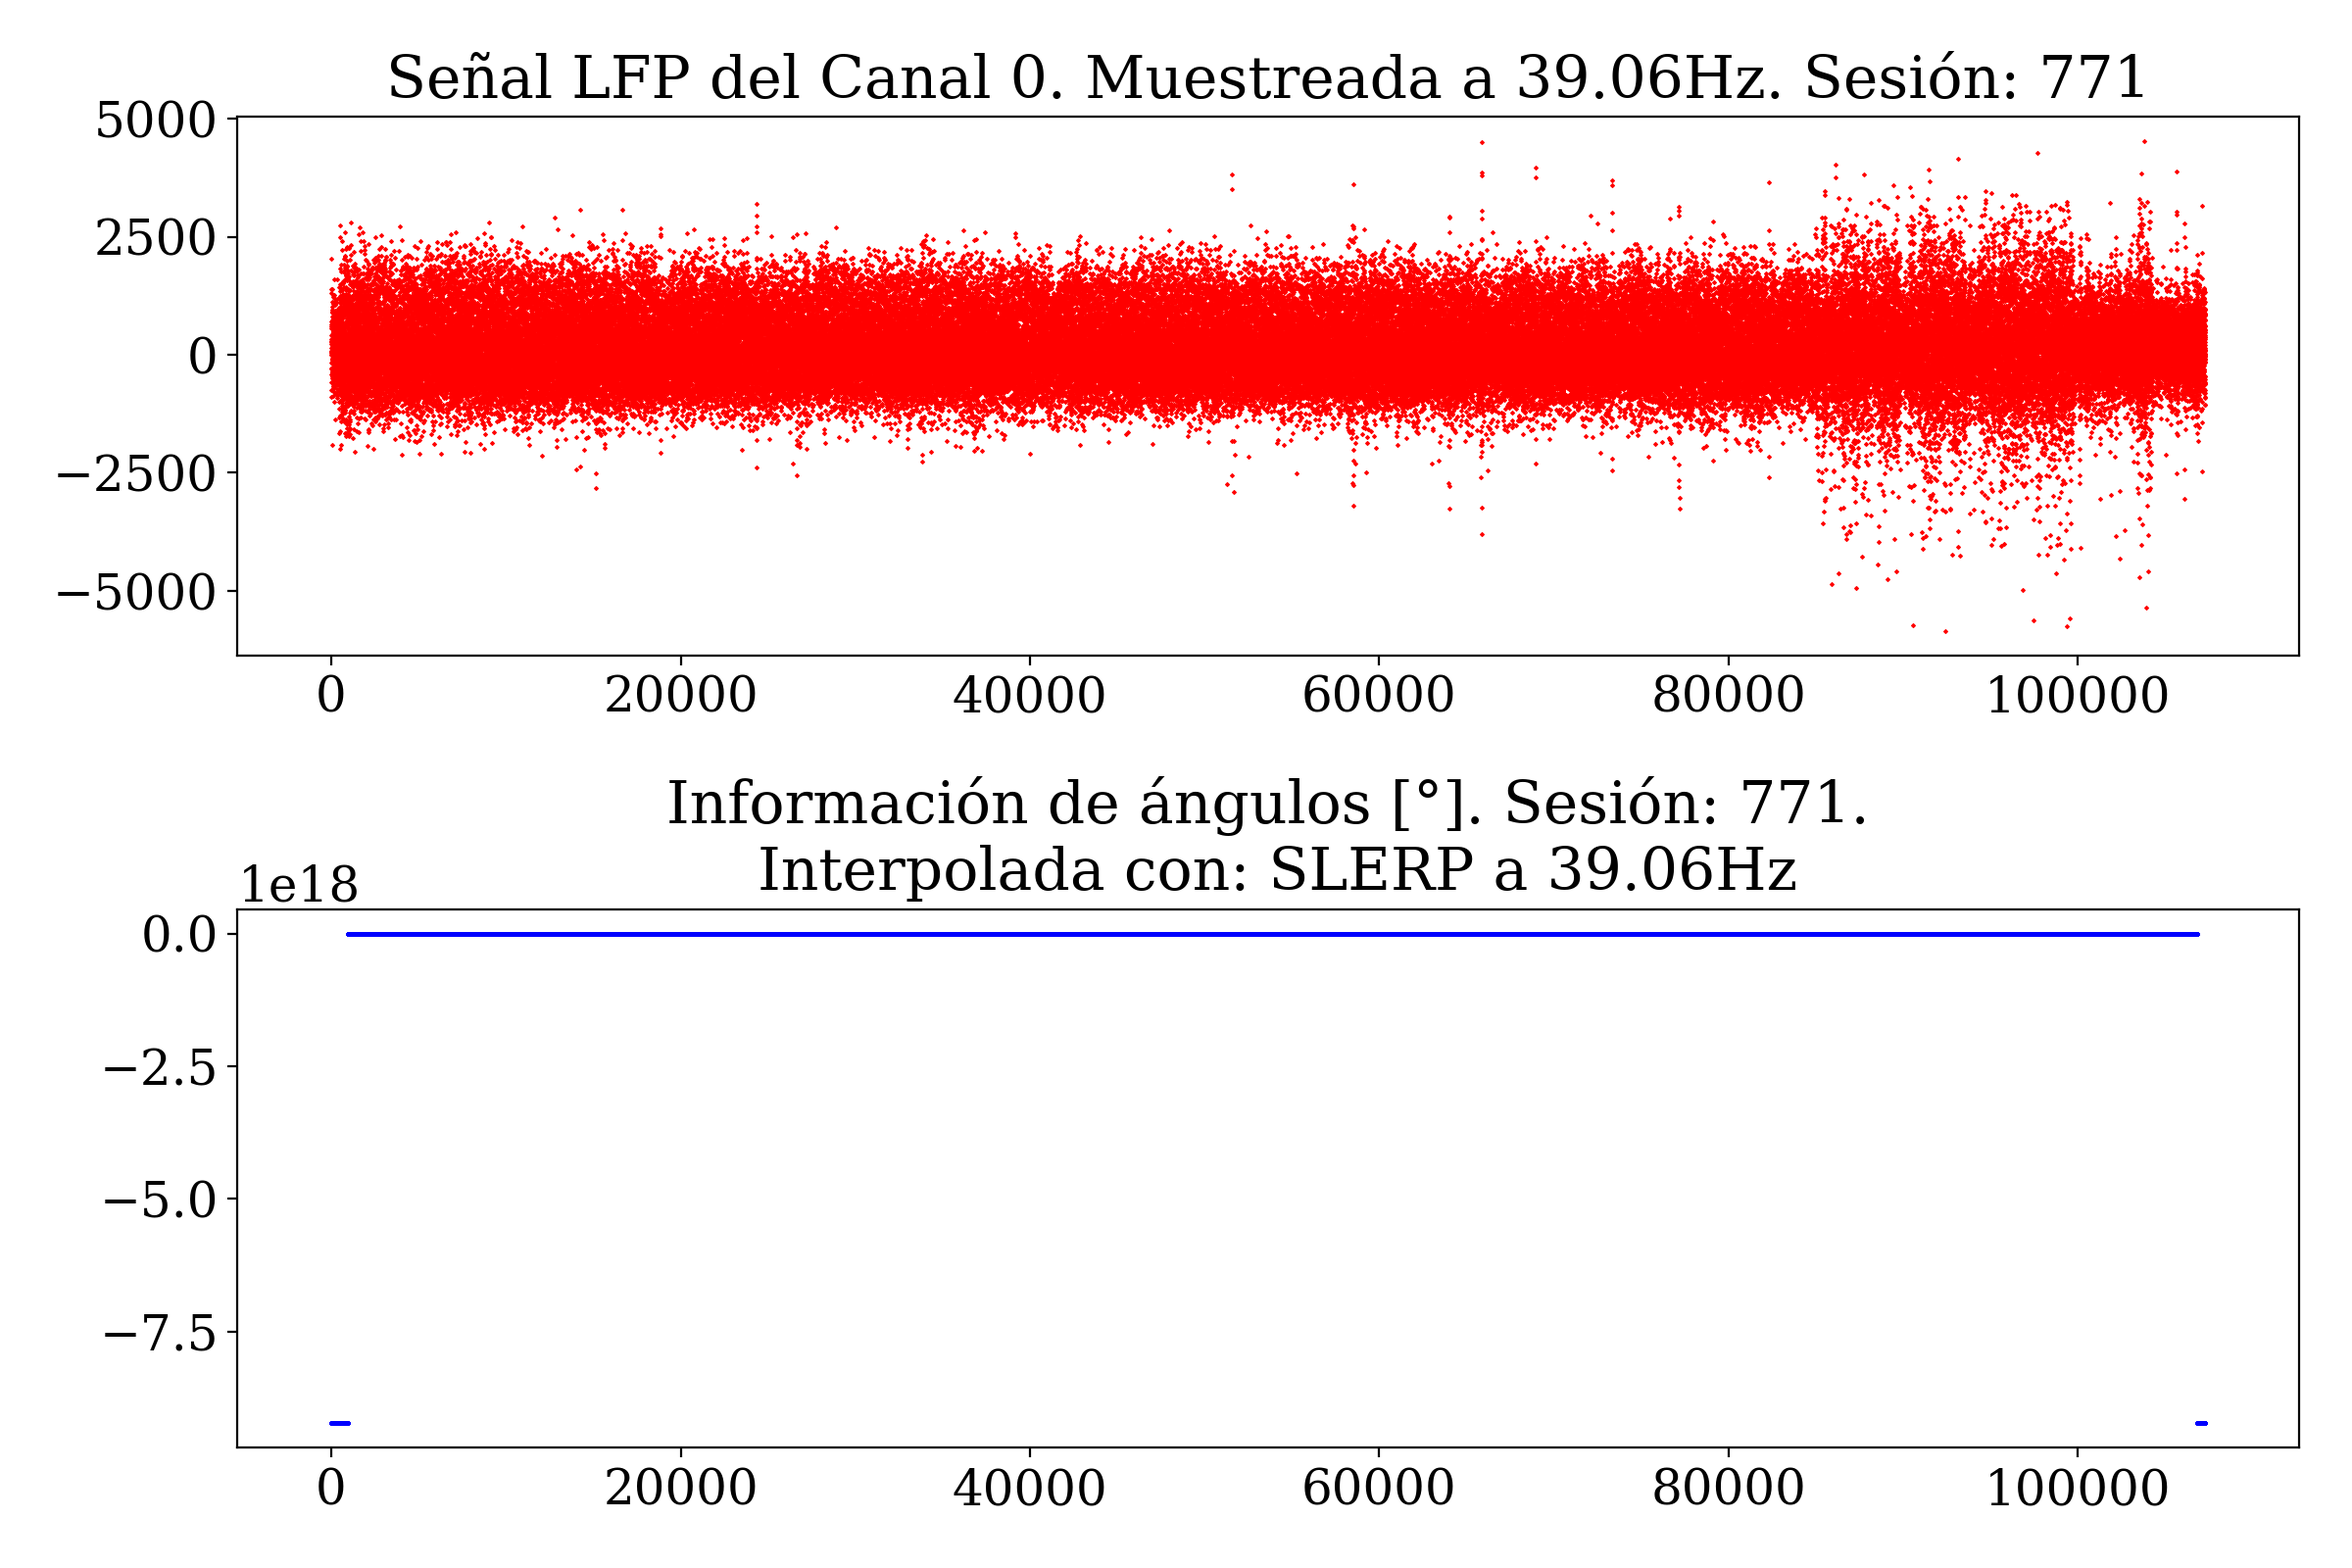
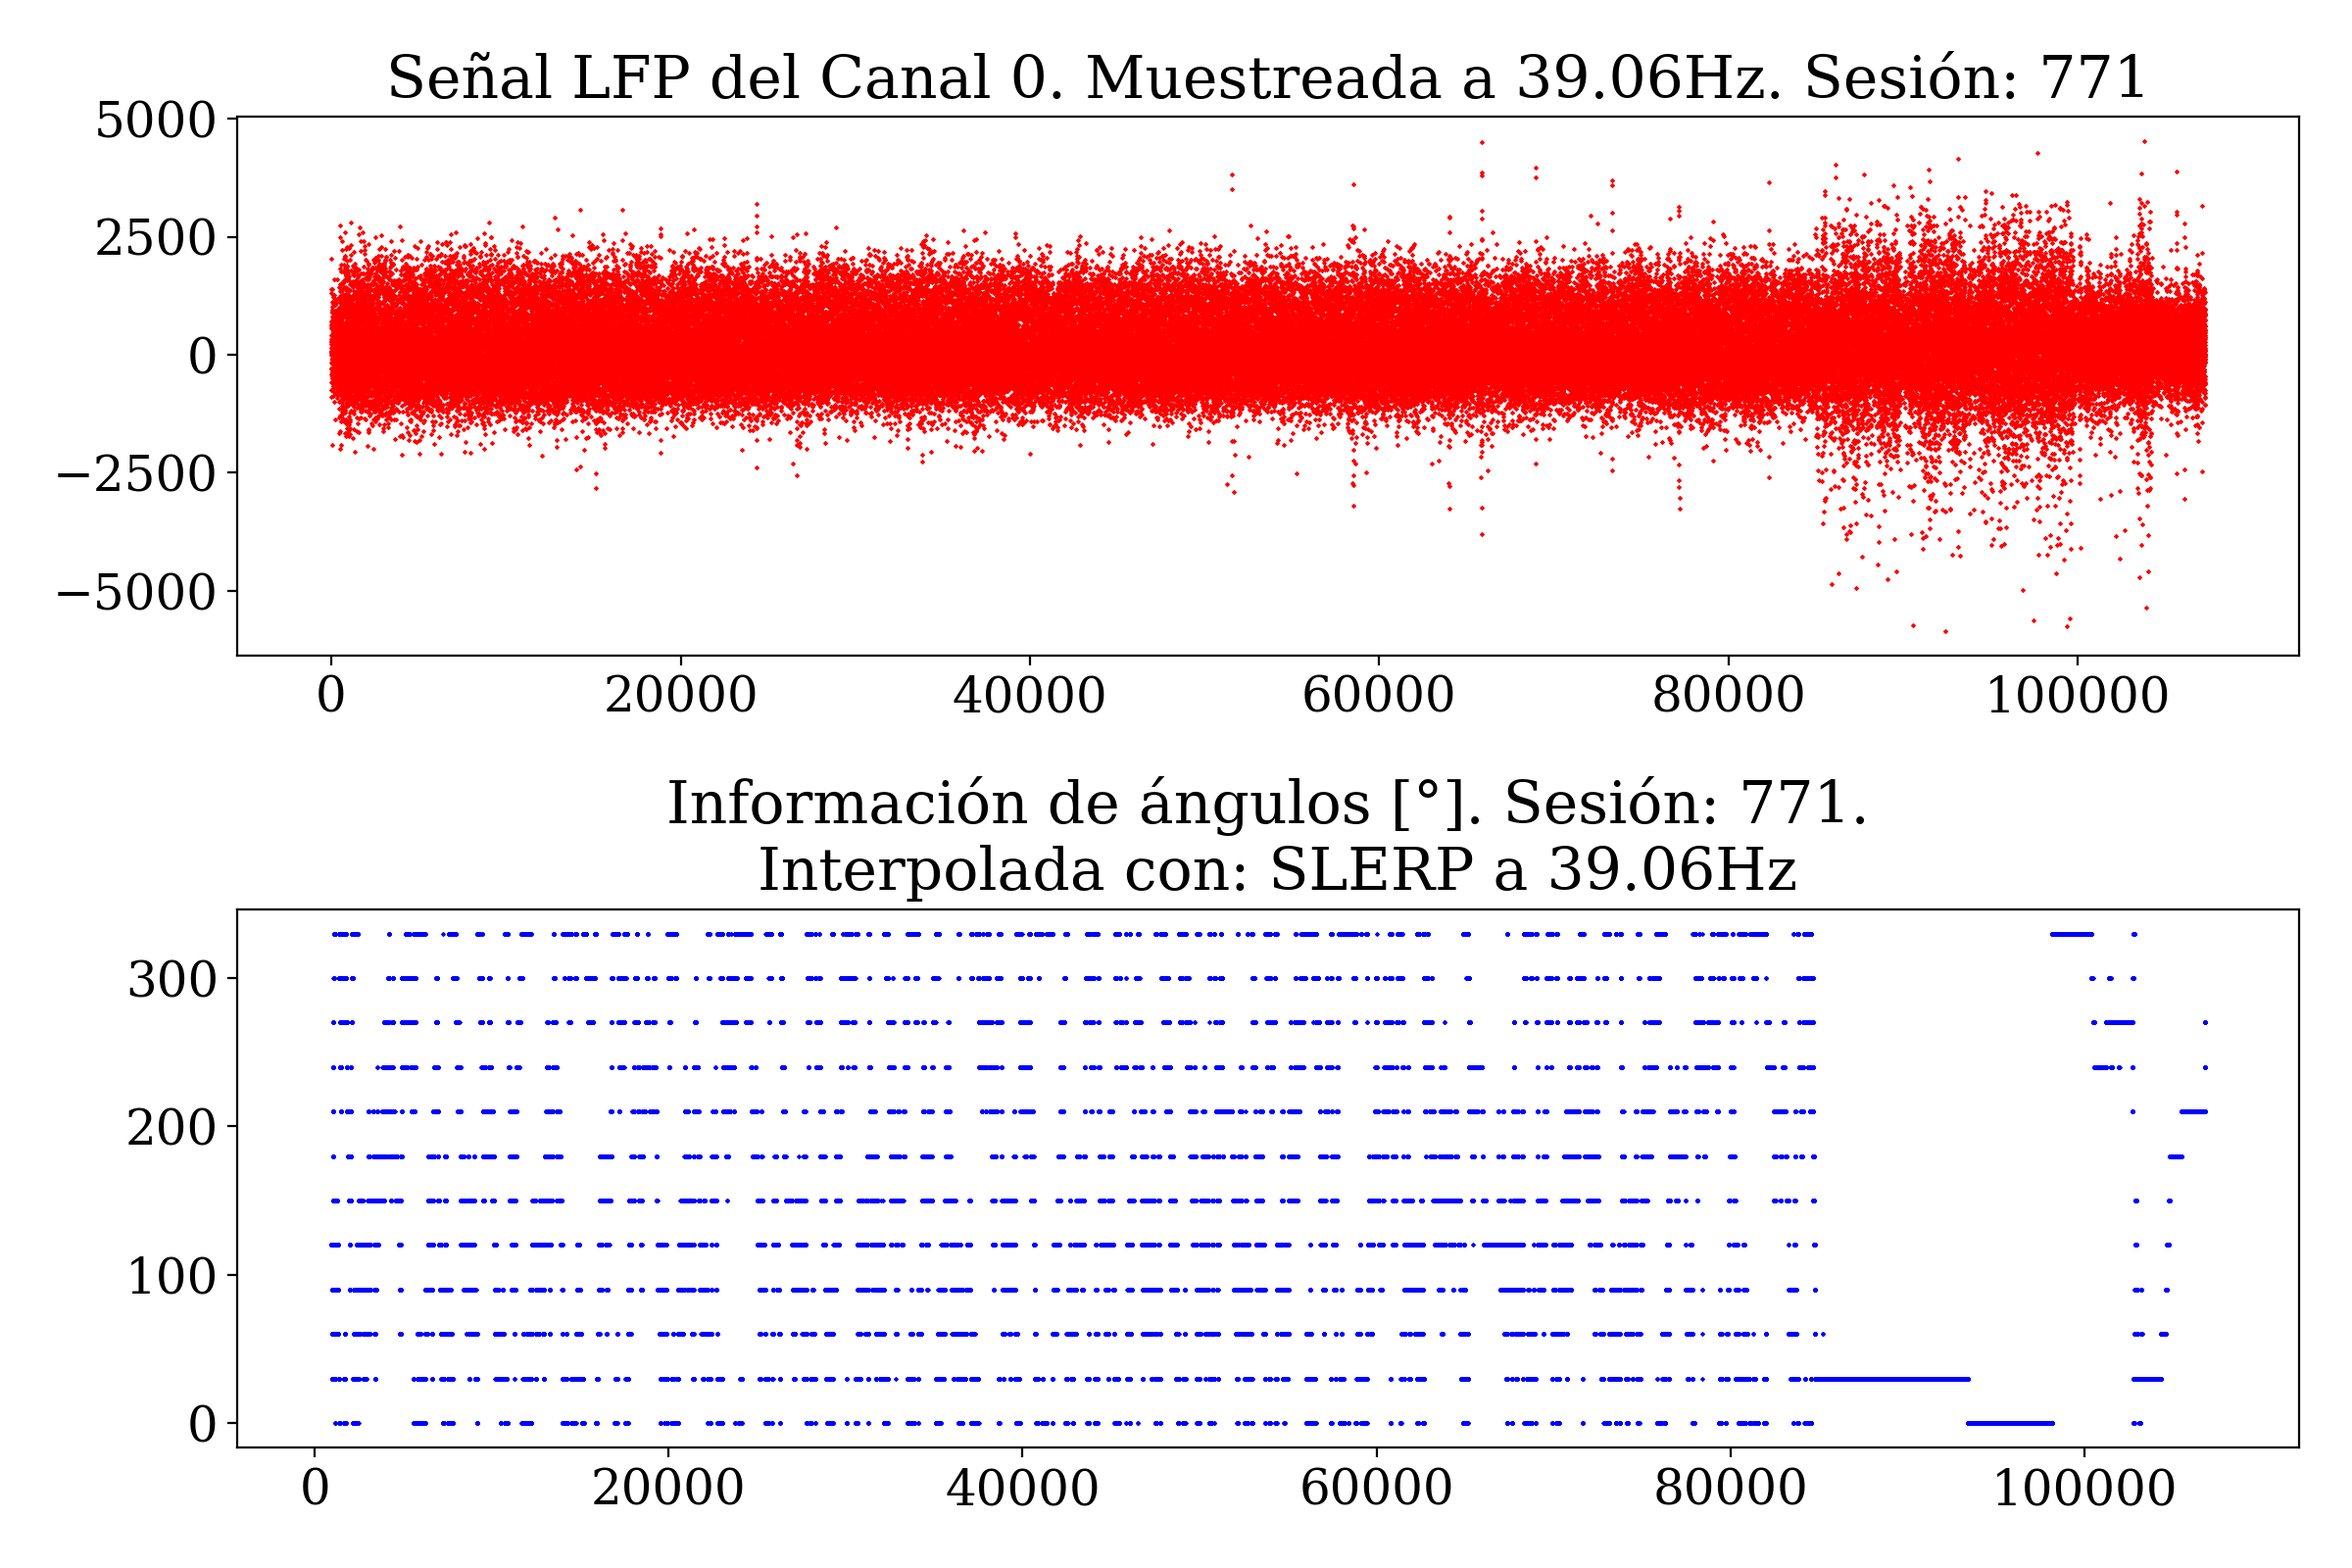
Fix labels definition when rounding angles into a finite number of labels. - Bar plot angle labels versus percentage of appearances - FIX BUG: wrong casting to ints when adding labels.

diff --git a/DataExploration/DataExploration.py b/DataExploration/DataExploration.py
@@ -37,8 +37,8 @@ PLOT = True
 DONT_PLOT = False
 
 # Session and methods Parameters
-session = {"Number": "771", "LFP Data": data.LFP_771, "Angles Data": data.ANGLES_771}  # or
-#session = {"Number": "765", "LFP Data": data.LFP_765, "Angles Data": data.ANGLES_765}
+#session = {"Number": "771", "LFP Data": data.LFP_771, "Angles Data": data.ANGLES_771}  # or
+session = {"Number": "765", "LFP Data": data.LFP_765, "Angles Data": data.ANGLES_765}
 
 interpolation = "SLERP"  # "linear" "quadratic" "cubic" "nearest" "SLERP"
 sync_method = "Pad Angles"  # "Pad Angles" "Downsample LFPs"
@@ -155,7 +155,7 @@ if PLOT:
     plt.plot(angles_data_interpolated[:], "xr")
     plt.title("Información de ángulos [°]. Sesión: " + session["Number"] + ".\n Interpolada con: " + interpolation
               + " a " + str(rate_used) + "Hz")
-    ui.store_figure(figname, True)
+    ui.store_figure(figname)
 
 ## <li> Step 5
 # <ul>
@@ -165,7 +165,10 @@ if PLOT:
 # </ul>
 Env.step("Label data by concatenating LFPs and interpolated Angles in a single 2D-array.")
 
-labeled_data = data.add_labels(lfp_data, np.expand_dims(angles_data_interpolated, axis=1), 45, 90)
+base_angle = 0
+offset_between_angles = 30
+labeled_data = data.add_labels(lfp_data, np.expand_dims(angles_data_interpolated, axis=1),
+                               base_angle, offset_between_angles)
 
 if PLOT:
     Env.print_text("Plotting LFP data from channels 0 and interpolated angles data at " + str(rate_used) + "Hz. [°]")
@@ -193,6 +196,7 @@ if session["Number"] == "771" and sync_method == "Downsample LFPs":
 # <ul>
 # <li> Convert labeled dataset to a dataframe.
 # <li> Clean both, the labeled dataset and dataframe from NaN values at the boundaries.
+# <li> Print Bar plot for labeled angles.
 # </ul>
 Env.step("Clean the labeled dataset from NaN values at the boundaries.")
 
@@ -200,6 +204,23 @@ dataframe = data.ndarray_to_dataframe(labeled_data, rate_used)
 
 clean_frame = data.clean_unsync_boundaries(dataframe)
 clean_dataset = data.clean_unsync_boundaries(labeled_data, False)
+
+labels = np.arange(base_angle, 360, offset_between_angles)
+percentages = []
+for u in range(base_angle, 360, offset_between_angles):
+    percentages.append(round(np.sum(clean_dataset[:, -1] == u)*100/len(clean_dataset[:, -1])))
+
+labels_percent = np.concatenate((np.expand_dims(labels, axis=1), np.expand_dims(percentages, axis=1)), axis=1)
+dataframe_labels = pd.DataFrame(data=labels_percent, columns=["Angulos", "Porcentaje"])
+
+if PLOT:
+    Env.print_text("Plotting Barplot of Labels after " + interpolation + " interpolation")
+    figname = session["Number"] + "_BarPLotAngles_" + interpolation + "_" + str(rate_used) + "Hz"
+    plt.figure(figname)
+    sns.barplot(x="Angulos", y="Porcentaje", data=dataframe_labels)
+    plt.title("Gráfico de Barras de las etiquetas. Sesión: " + session["Number"] + ".\n Interpolada con: " + interpolation
+              + " a " + str(rate_used) + "Hz")
+    ui.store_figure(figname)
 
 ## <li> Step 7
 # <ul>
@@ -210,20 +231,20 @@ Env.step("Count and print number of NaNs in the Dataset.")
 
 nans_begin = 0
 nans_end = 0
-length = len(labeled_data)
+length = len(angles_data_interpolated)
 for i in range(length):
-    if ~np.isnan(labeled_data[i, -1]):
+    if ~np.isnan(angles_data_interpolated[i]):
         nans_begin = i
         break
 for i in range(length-1, 0, -1):
-    if ~np.isnan(labeled_data[i, -1]):
+    if ~np.isnan(angles_data_interpolated[i]):
         nans_end = i
         break
 nans_end = length - (nans_end + 1)
 
 Env.print_text("Number of NaNs in Angles Data without interpolation: " + str(np.count_nonzero(np.isnan(angles_data))))
 Env.print_text("Number of NaNs in Labeled Dataset with interpolated Angles Data: "
-               + str(np.count_nonzero(np.isnan(labeled_data))))
+               + str(np.count_nonzero(np.isnan(angles_data_interpolated))))
 Env.print_text("Number of NaNs at the beginning of the interpolated Angles Data: " + str(nans_begin))
 Env.print_text("Number of NaNs at the end of the interpolated Angles Data: " + str(nans_end))
 Env.print_text("Number of NaNs in Labeled and Clean Dataset with interpolated Angles Data: "
@@ -276,10 +297,11 @@ if PLOT:
     figname = session["Number"] + "_BoxPLotChannels_" + interpolation + "_" + str(rate_used) + "Hz"
     fig = plt.figure(figname)
 
+if DONT_PLOT:
     ## <li> Step 10
     # <ul>
     # <li> Plotting Boxplot of interpolated angles.
-    # <li> Plotting Boxplot of interpolated angles vs channel 0 (None relevant data can be inferred from it).
+    # <li> Plotting Boxplot of interpolated angles vs channel 0
     # </ul>
     Env.step("Plotting Boxplot of interpolated angles.")
 
@@ -292,14 +314,13 @@ if PLOT:
               + interpolation + " a " + str(rate_used) + "Hz")
     ui.store_figure(figname)
 
-    """
     figname = session["Number"] + "_BoxPLotC0vsAngles_" + interpolation + "_" + str(rate_used) + "Hz"
     plt.figure(figname)
     sns.boxplot(x=clean_frame["1"], y=clean_frame["Angle"])
     plt.title("Diagrama de caja del canal 0 contra los ángulos.\nSesión: " + session["Number"] + ". Interpolada con: "
               + interpolation + " a " + str(rate_used) + "Hz")
     ui.store_figure(figname, True)
-    """
+
 
 # </ol>
 ## <h2> Finish Test and Exit </h2>

diff --git a/Yomchi/preprocessing.py b/Yomchi/preprocessing.py
@@ -129,24 +129,24 @@ def vectorized_slerp(angles_data):
     interpolated_angles = angles_data
 
     for i in range(1, len(interpolated_angles)):
-        val = interpolated_angles[i]
-
-        # If a NaN followed by another NaN
+        # If a valid value followed by NaN: this is the first NaN, start counting
         if np.isnan(interpolated_angles[i]) and not np.isnan(interpolated_angles[i-1]):
             start_angle = interpolated_angles[i-1]
             no_nans = 1
             first_nan_index = i
-        # If a valid value followed by NaN
+
+        # If a NaN followed by another NaN: Increment counter 1+.
         elif np.isnan(interpolated_angles[i]) and np.isnan(interpolated_angles[i - 1]):
             no_nans += 1
-        # If angles[i] != NaN and angles[i-1] == NaN
+
+        # If a NaN followed by a valid value: This is the last NaN, interpolate.
         elif not np.isnan(interpolated_angles[i]) and np.isnan(interpolated_angles[i - 1]):
             if no_nans > 0 and not np.isnan(start_angle):
                 amount = 0
                 end_angle = interpolated_angles[i]
                 for j in range(first_nan_index, first_nan_index + no_nans):
                     amount += 1/(no_nans + 1)
-                    interpolated_angles[j] = (start_angle + (((end_angle-start_angle) + 180) % 360 - 180) * amount) % 360
+                    interpolated_angles[j] = slerp(start_angle, end_angle, amount)
                 start_angle = np.nan
 
     return interpolated_angles
@@ -218,7 +218,6 @@ def add_labels(lfps, angles, start, offset):
                     label = tag
             angles[i] = label
 
-    angles = angles.astype(int)
     labeled_data = np.concatenate((lfps, angles), axis=1)
 
     return labeled_data
